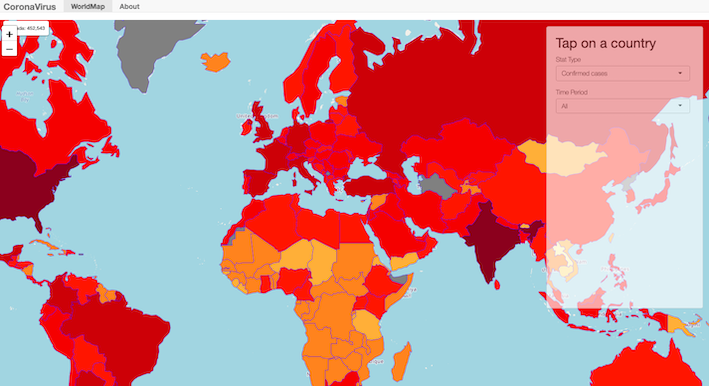
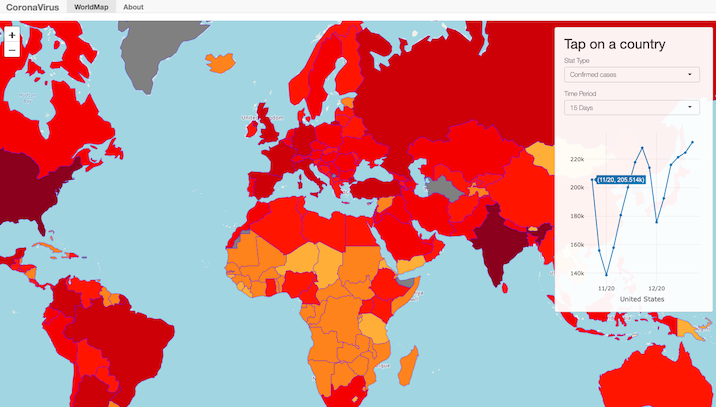
Readme update

diff --git a/README.md b/README.md
@@ -1,8 +1,10 @@
-This is a simple Shiny app visualizing Covid19 case, death and recovery numbers on a World choropleth map. It uses Johns Hopkins University [dataset](https://github.com/CSSEGISandData/COVID-19).
+# COVID19 Tracker
 
-Type of the statistics and time period can be chosen on the control panel.
+This is a simple Shiny app visualizing Covid19 case, death and recovery numbers on an interactive World choropleth map. It uses Johns Hopkins University [dataset](https://github.com/CSSEGISandData/COVID-19).
 
-Tapping/Clicking on a country triggers a plot of that country below the input lists.
+Type of the statistics and time period can be chosen via the control panel.
+
+Tapping/Clicking on a country triggers an interactive [Leaflet](https://rstudio.github.io/leaflet/) plot of chosen stats below the input lists.
 
 The app can be viewed at [here](https://hhekim.shinyapps.io/Covid19/).
 
